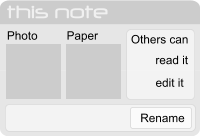
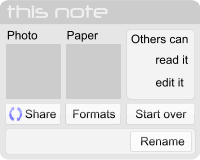
Added "script" font

diff --git a/app/public/styles/notex.css b/app/public/styles/notex.css
@@ -12,8 +12,8 @@ img {
 
 #logo {
   position: absolute;
-  top: 2px;
-  left: 220px;
+  top: 5px;
+  left: 10px;
   width: 324px;
   height: 54px;
   background: url(/images/noted.cc.png);
@@ -87,6 +87,10 @@ img {
   font-family: courier new, monospace;
 }
 
+.script {
+  font-family: brush script mt, cursive;
+}
+
 #debug {
   position: absolute;
   color: red;
@@ -124,7 +128,7 @@ img {
   top: 65px;
   left: 13px;
   width: 200px;
-  height: 90px;
+  height: 82px;
 }
 
 #penbox #selectcolor {
@@ -140,22 +144,22 @@ img {
   position: absolute;
   top: 57px;
   left: 4px;
-  width: 62px;
-  height: 28px;
+  width: 47px;
+  height: 22px;
   background: url(/images/selectfont.png);
 }
 
 #notebox {
   position: absolute;
-  top: 165px;
+  top: 160px;
   left: 13px;
   width: 200px;
-  height: 136px;
+  height: 160px;
 }
 
 #notelist {
   position: absolute;
-  top: 312px;
+  top: 332px;
   left: 13px;
   width: 200px;
 }

diff --git a/app/views/en/layouts/notepad.html.php b/app/views/en/layouts/notepad.html.php
@@ -17,7 +17,7 @@
 <div id="penbox">
   <div id="selectcolor"></div>
   <div id="selectfont"></div>
-  <img src="/images/penbox.png" id="styleimg" width="200" height="90" usemap="#penmap" alt="penbox" />
+  <img src="/images/penbox.png" id="styleimg" width="200" height="82" usemap="#penmap" alt="penbox" />
   <map name="penmap">
     <area shape="rect" coords="4,28,27,52" onclick="notex.penbox.set_color('black', 4, 28)" alt="black" />
     <area shape="rect" coords="28,28,51,52" onclick="notex.penbox.set_color('#333', 28, 28)" alt="slate gray" />
@@ -28,13 +28,14 @@
     <area shape="rect" coords="147,28,170,52" onclick="notex.penbox.set_color('#ff00fc', 147, 28)" alt="pink kiss" />
     <area shape="rect" coords="171,28,194,52" onclick="notex.penbox.set_color('red', 171, 28)" alt="red alert" />
 
-    <area shape="rect" coords="4,56,66,85" onclick="notex.penbox.set_font('sans', 4, 56)" alt="sans serif" />
-    <area shape="rect" coords="68,56,130,85" onclick="notex.penbox.set_font('serif', 68, 56)" alt="serif" />
-    <area shape="rect" coords="133,56,195,85" onclick="notex.penbox.set_font('mono', 133, 56)" alt="mono" />
+    <area shape="rect" coords="4,56,51,78" onclick="notex.penbox.set_font('sans', 4, 56)" alt="sans serif" />
+    <area shape="rect" coords="53,56,100,78" onclick="notex.penbox.set_font('serif', 53, 56)" alt="serif" />
+    <area shape="rect" coords="101,56,147,78" onclick="notex.penbox.set_font('mono', 101, 56)" alt="mono" />
+    <area shape="rect" coords="149,56,196,78" onclick="notex.penbox.set_font('script', 149, 56)" alt="script" />
   </map>
 </div>
 <div id="notebox">
-  <img src="/images/notebox.png" id="styleimg" width="200" height="136" usemap="#notemap" alt="notebox" />
+  <img src="/images/notebox.png" id="styleimg" width="200" height="160" usemap="#notemap" alt="notebox" />
   <map name="notemap">
   </map>
 </div>
